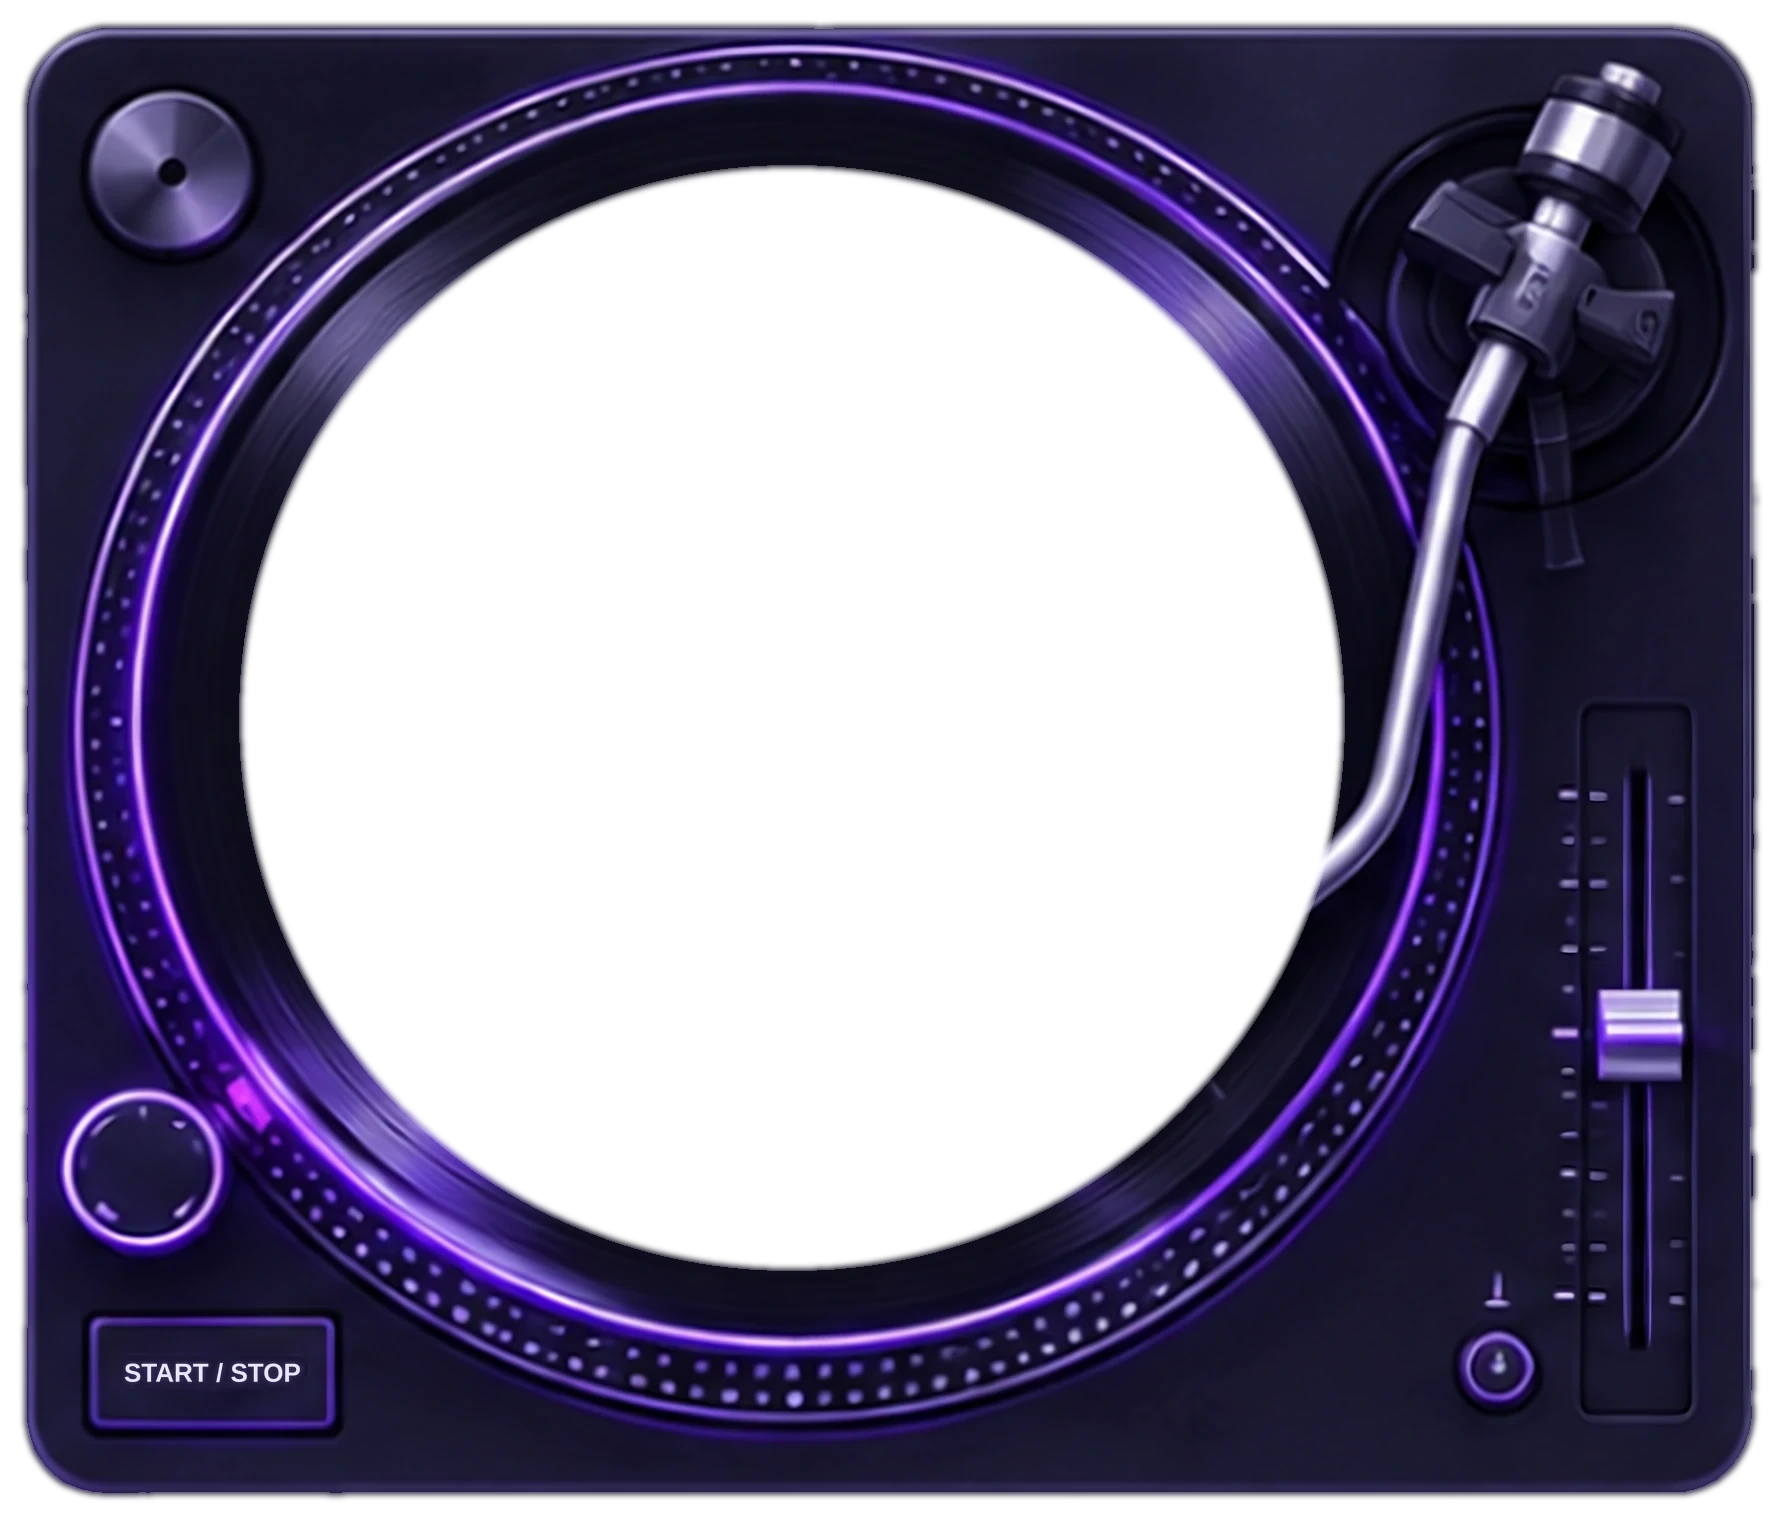
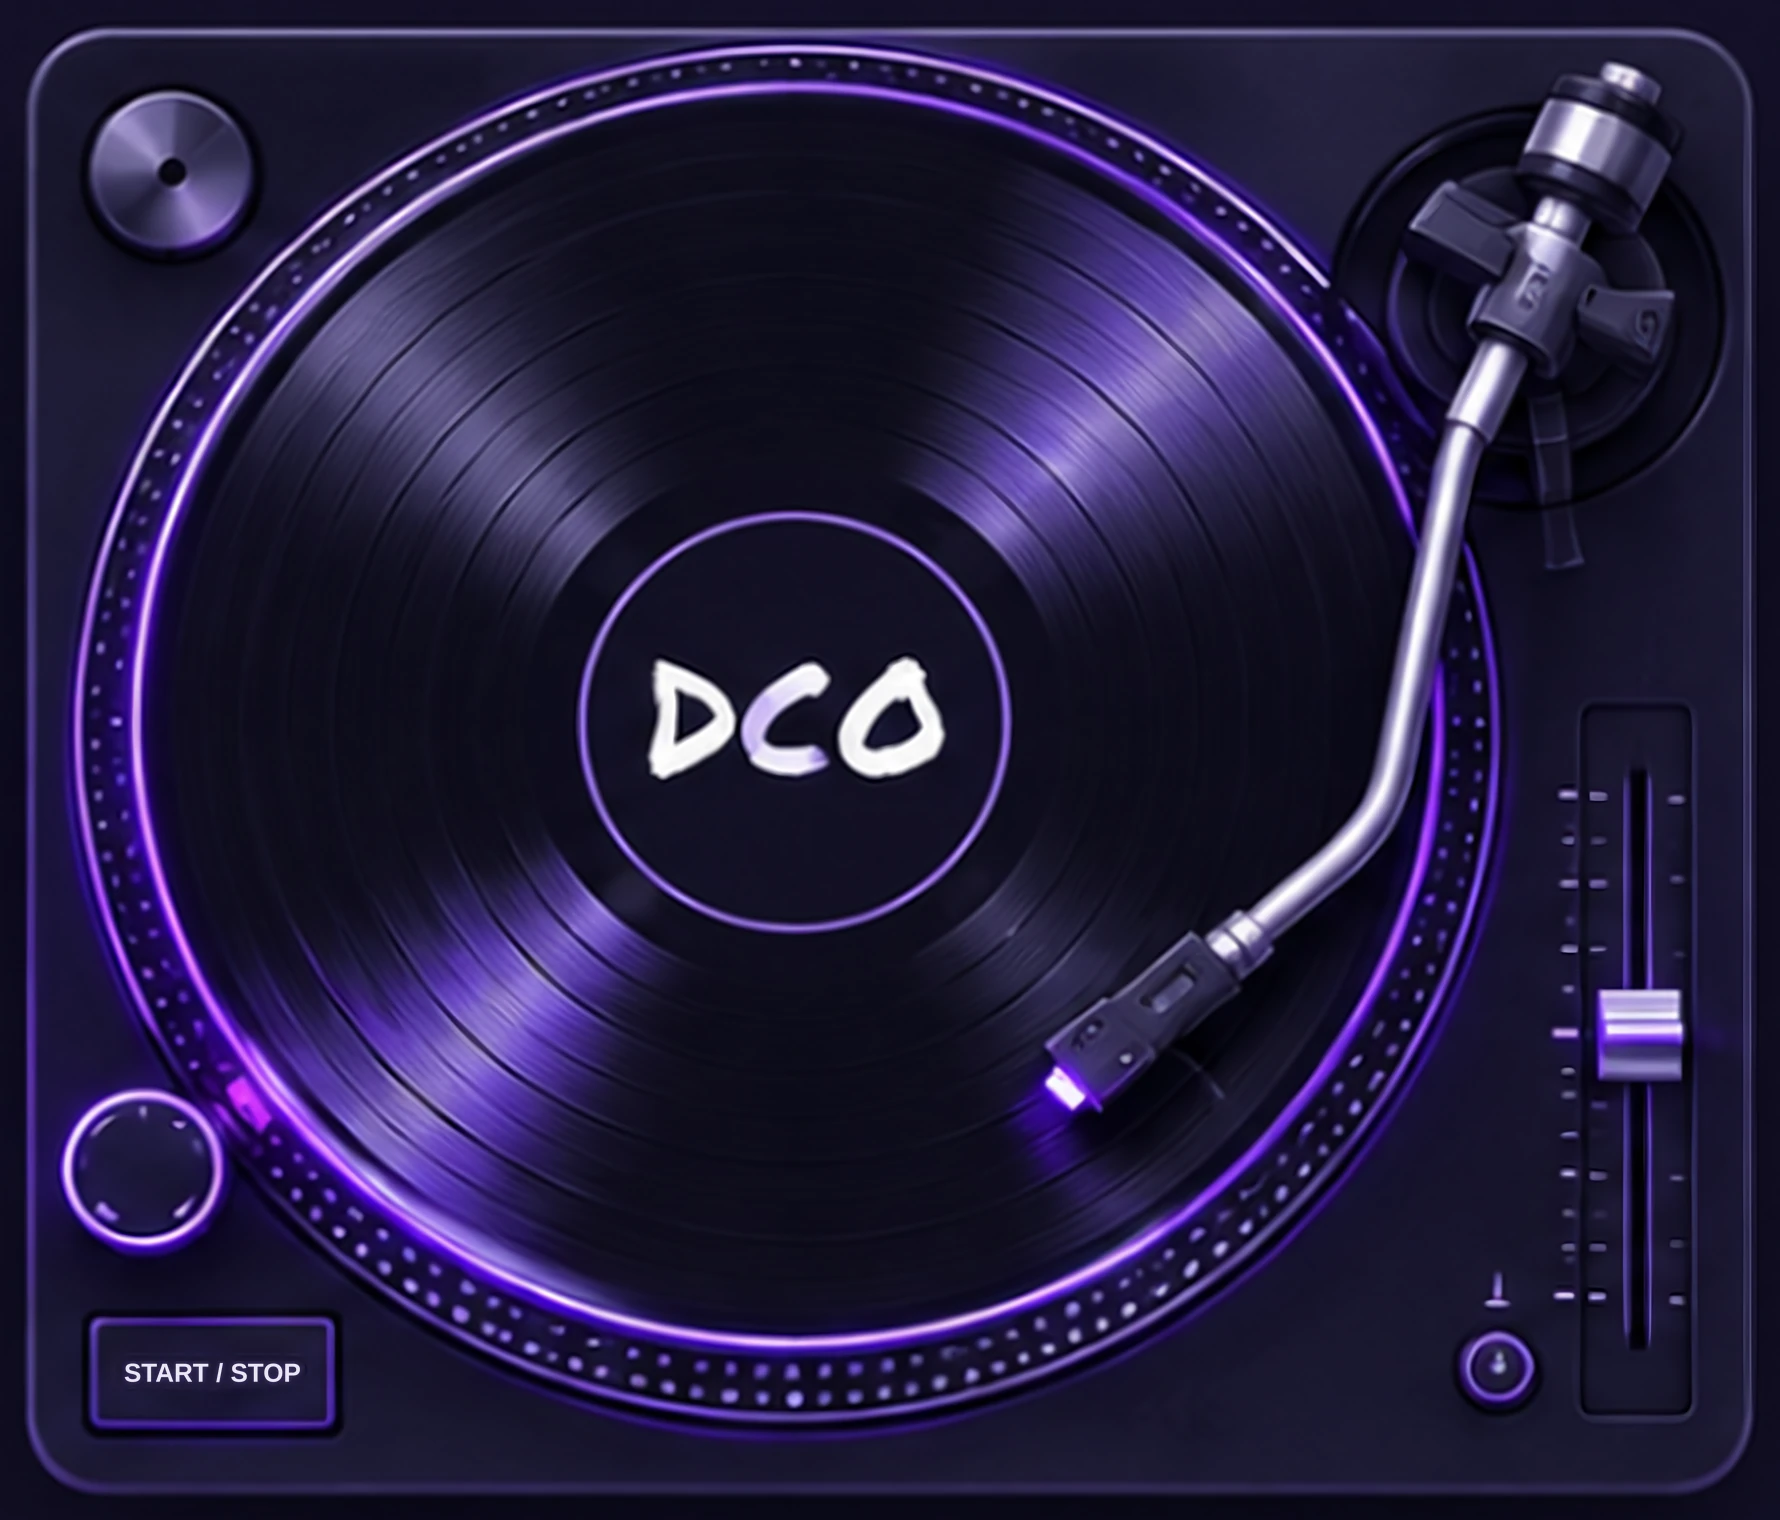
Use clean rounded clip for the turntable edges.
Restore original webps and clip with a matching border-radius frame plus a simple purple rim.

diff --git a/src/components/DraftTurntable.css b/src/components/DraftTurntable.css
@@ -1,24 +1,28 @@
 /*
- * Draft 1 turntable with the spinning DsoLogo.
- * Deck webp has flood-cleared transparent outer plate (no square backdrop).
- * Glow comes from the artwork itself — no CSS drop-shadow halo.
+ * Clean rounded turntable frame.
+ * Original webps + overflow clip — no flood-fill / soft-mask artifacts.
  */
 
 .dco-draft {
-  container-type: inline-size;
-  position: relative;
   width: 100%;
   max-width: 760px;
-  aspect-ratio: 445 / 380;
   margin-inline: auto;
-  user-select: none;
-  background: transparent !important;
-  border: none !important;
-  box-shadow: none !important;
-  outline: none;
-  overflow: visible;
-  isolation: auto;
-  filter: none;
+  background: transparent;
+}
+
+.dco-draft__frame {
+  position: relative;
+  width: 100%;
+  aspect-ratio: 445 / 380;
+  /* Match chassis corner radius (~12.5% of short side) */
+  border-radius: 10.5% / 12.5%;
+  overflow: hidden;
+  background: transparent;
+  /* Clean purple rim */
+  box-shadow:
+    inset 0 0 0 1.5px rgba(216, 180, 254, 0.75),
+    0 0 0 1px rgba(139, 92, 246, 0.55),
+    0 0 14px rgba(124, 58, 237, 0.4);
 }
 
 .dco-draft__deck,
@@ -29,10 +33,21 @@
   height: 100%;
   display: block;
   pointer-events: none;
-  background: transparent;
-  border: none;
-  box-shadow: none;
-  filter: none;
+  user-select: none;
+}
+
+/* Hide baked-in center label under our spinning DsoLogo */
+.dco-draft__deck {
+  -webkit-mask-image: radial-gradient(
+    circle 36.2% at 44.494% 47.237%,
+    transparent 99.2%,
+    #000 100%
+  );
+  mask-image: radial-gradient(
+    circle 36.2% at 44.494% 47.237%,
+    transparent 99.2%,
+    #000 100%
+  );
 }
 
 .dco-draft__record {
@@ -46,17 +61,13 @@
   z-index: 2;
   border-radius: 50%;
   overflow: hidden;
-  background: transparent;
 }
 
 .dco-draft .dco-draft__logo {
   display: block;
   width: 100%;
   height: 100%;
-  background: transparent;
-  -webkit-backface-visibility: hidden;
-  backface-visibility: hidden;
-  animation: dco-draft-spin 1.8s linear infinite; /* 33⅓ RPM */
+  animation: dco-draft-spin 1.8s linear infinite;
 }
 
 .dco-draft .dco-draft__logo .dso-logo-shine-spin {
@@ -65,17 +76,22 @@
 
 .dco-draft__arm {
   z-index: 3;
-  /* subtle depth only on the arm cutout */
-  filter: drop-shadow(0.4cqw 0.8cqw 0.5cqw rgba(0, 0, 0, 0.35));
 }
 
 .dco-draft--sidebar {
   max-width: none;
 }
 
+.dco-draft--sidebar .dco-draft__frame {
+  box-shadow:
+    inset 0 0 0 1.5px rgba(216, 180, 254, 0.7),
+    0 0 0 1px rgba(139, 92, 246, 0.5),
+    0 0 12px rgba(124, 58, 237, 0.35);
+}
+
 @keyframes dco-draft-spin {
   to {
-    rotate: 360deg;
+    transform: rotate(360deg);
   }
 }
 

diff --git a/src/components/DraftTurntable.jsx b/src/components/DraftTurntable.jsx
@@ -5,7 +5,7 @@ import "./DraftTurntable.css";
 
 /**
  * Draft 1 turntable with the existing <DsoLogo /> spinning on the platter.
- * Layers: deck image → spinning logo → tonearm cut-out (so the arm stays on top).
+ * Layers: deck → spinning logo → tonearm. Frame clips to clean rounded edges.
  */
 export function DraftTurntable({ className }) {
   return (
@@ -14,11 +14,23 @@ export function DraftTurntable({ className }) {
       role="img"
       aria-label="DCO turntable"
     >
-      <img className="dco-draft__deck" src={deckSrc} alt="" draggable={false} />
-      <div className="dco-draft__record">
-        <DsoLogo className="dco-draft__logo" />
+      <div className="dco-draft__frame">
+        <img
+          className="dco-draft__deck"
+          src={deckSrc}
+          alt=""
+          draggable={false}
+        />
+        <div className="dco-draft__record">
+          <DsoLogo className="dco-draft__logo" />
+        </div>
+        <img
+          className="dco-draft__arm"
+          src={armSrc}
+          alt=""
+          draggable={false}
+        />
       </div>
-      <img className="dco-draft__arm" src={armSrc} alt="" draggable={false} />
     </div>
   );
 }
